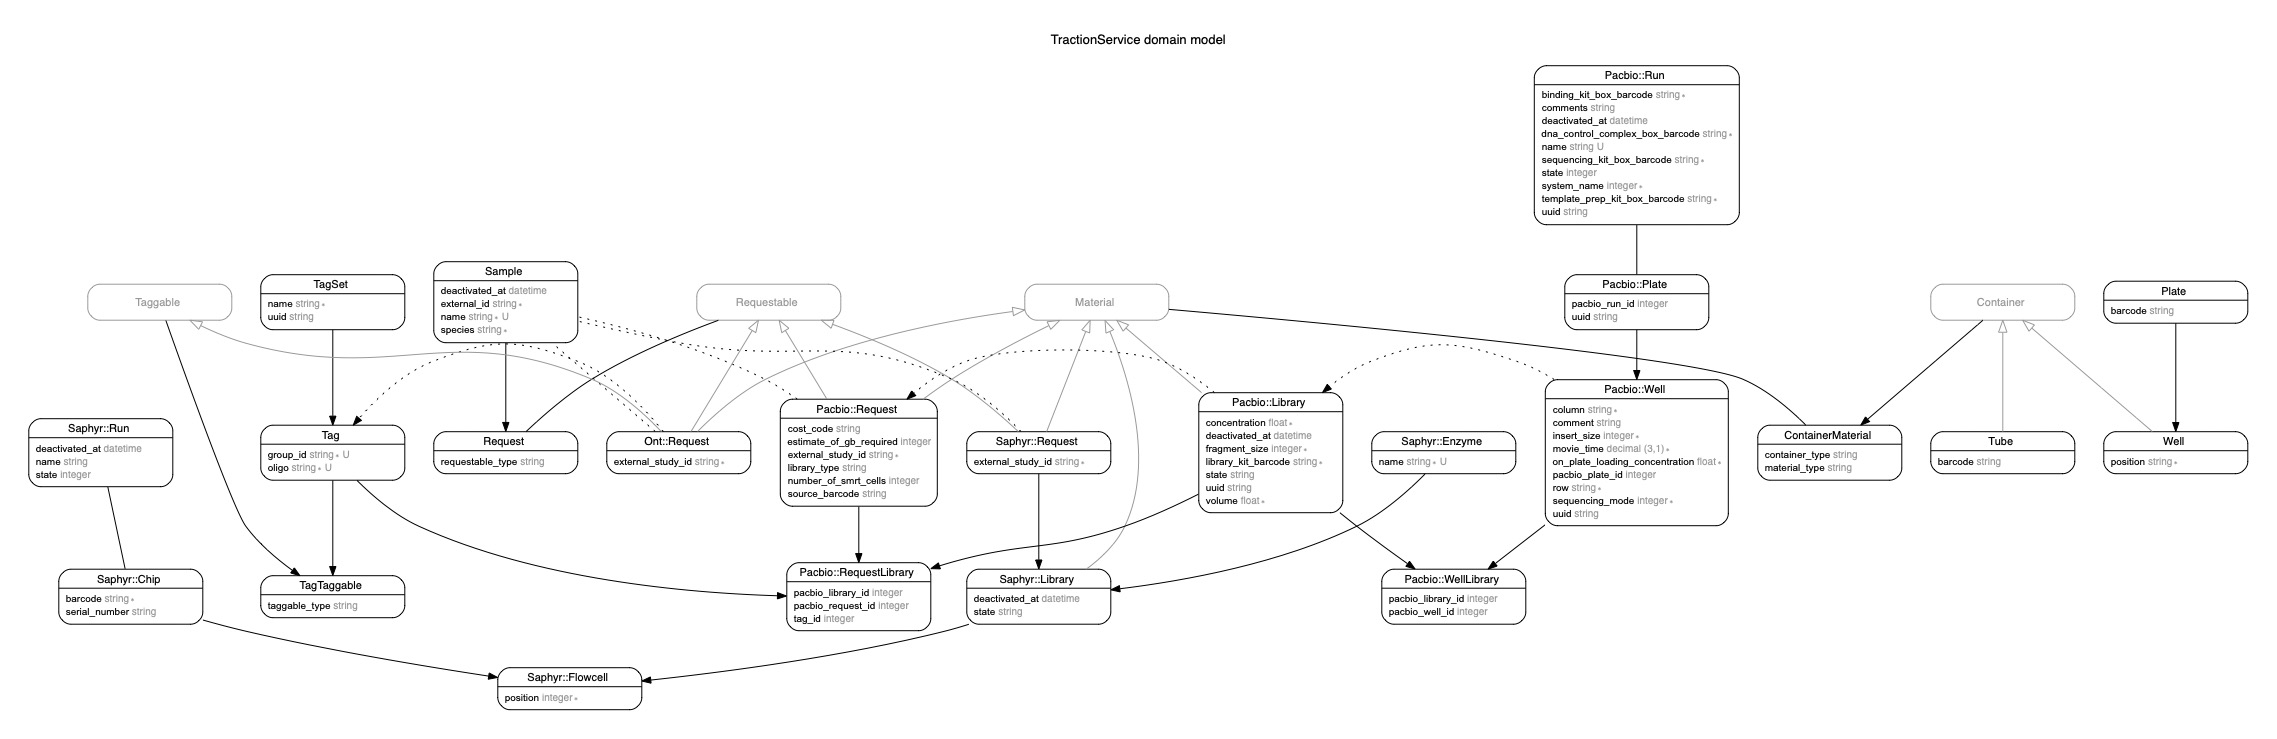
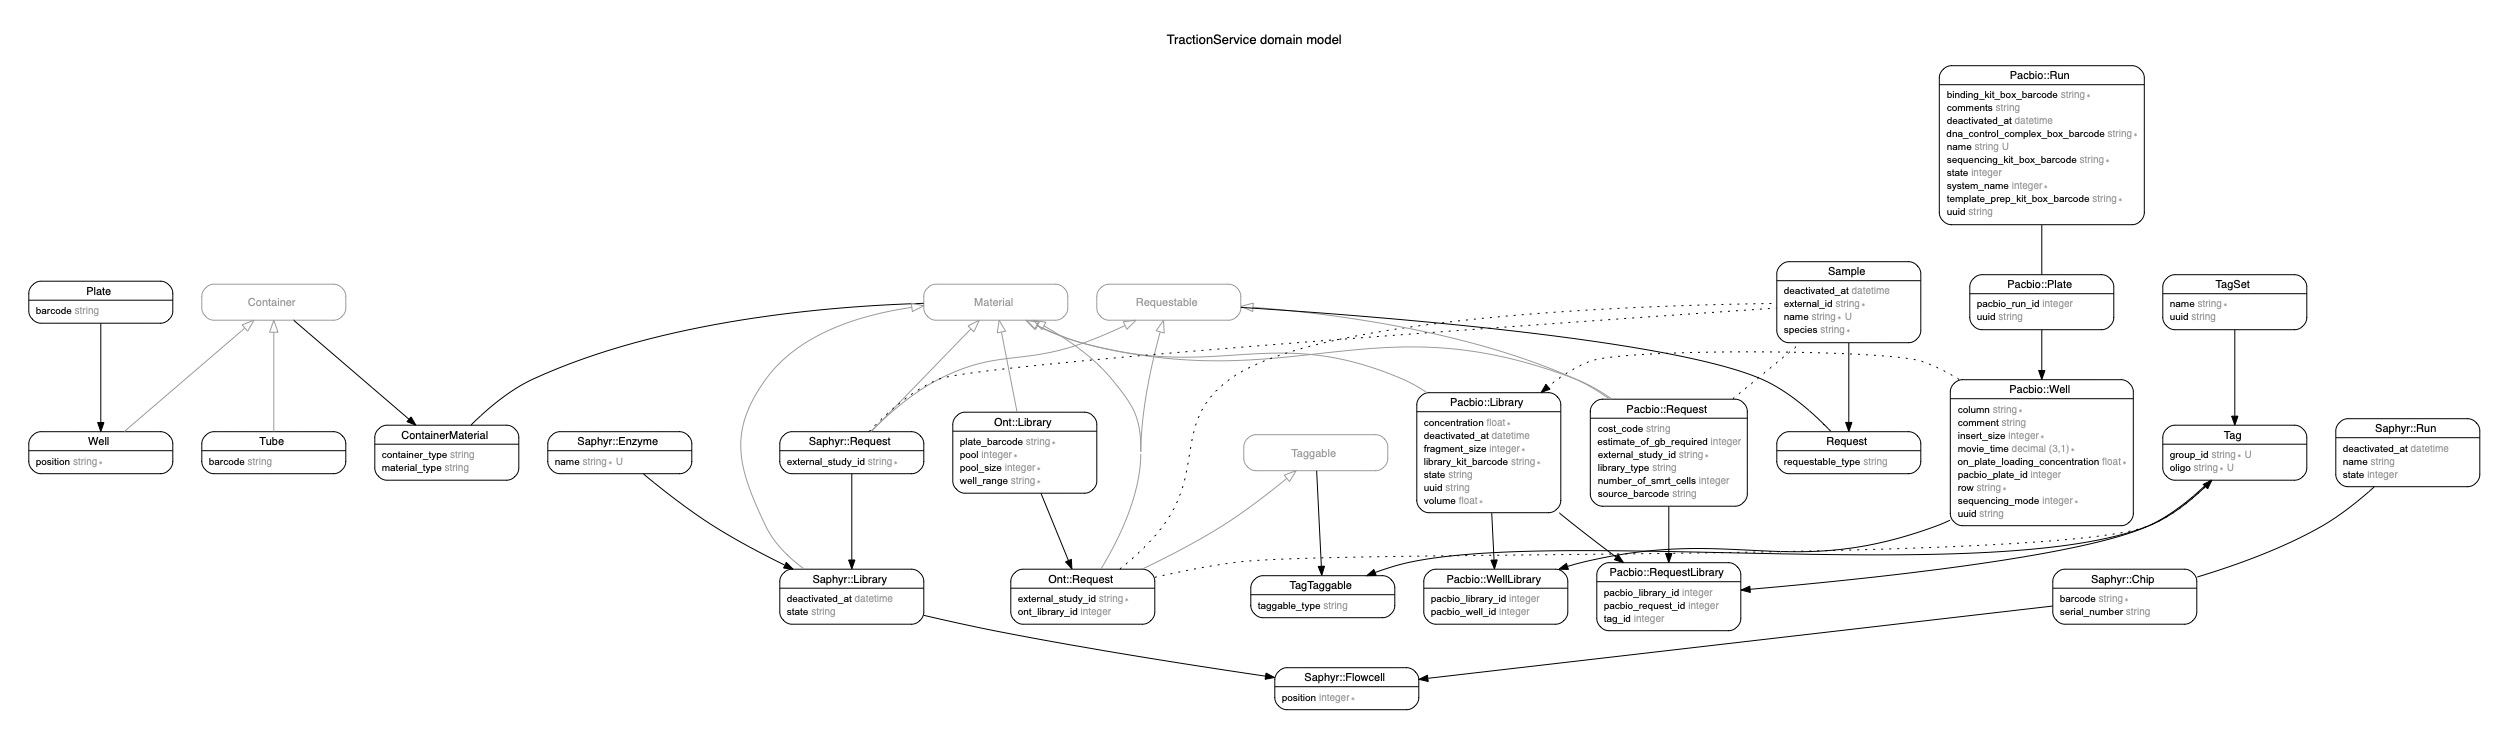
Add Ont::Library active record

diff --git a/db/schema.rb b/db/schema.rb
@@ -10,7 +10,7 @@
 #
 # It's strongly recommended that you check this file into your version control system.
 
-ActiveRecord::Schema.define(version: 2020_04_28_092948) do
+ActiveRecord::Schema.define(version: 2020_05_01_073510) do
 
   create_table "container_materials", force: :cascade do |t|
     t.string "container_type"
@@ -23,10 +23,21 @@ ActiveRecord::Schema.define(version: 2020_04_28_092948) do
     t.index ["material_type", "material_id"], name: "index_container_materials_on_material_type_and_material_id"
   end
 
+  create_table "ont_libraries", force: :cascade do |t|
+    t.string "plate_barcode"
+    t.integer "pool"
+    t.string "well_range"
+    t.integer "pool_size"
+    t.datetime "created_at", precision: 6, null: false
+    t.datetime "updated_at", precision: 6, null: false
+  end
+
   create_table "ont_requests", force: :cascade do |t|
     t.string "external_study_id"
     t.datetime "created_at", precision: 6, null: false
     t.datetime "updated_at", precision: 6, null: false
+    t.integer "ont_library_id"
+    t.index ["ont_library_id"], name: "index_ont_requests_on_ont_library_id"
   end
 
   create_table "pacbio_libraries", force: :cascade do |t|

diff --git a/db/migrate/20200501073510_create_ont_libraries.rb b/db/migrate/20200501073510_create_ont_libraries.rb
@@ -1,0 +1,15 @@
+class CreateOntLibraries < ActiveRecord::Migration[6.0]
+  def change
+    create_table :ont_libraries do |t|
+      t.string :plate_barcode
+      t.integer :pool
+      t.string :well_range
+      t.integer :pool_size
+      t.timestamps
+    end
+
+    change_table :ont_requests do |t|
+      t.belongs_to :ont_library, index: true
+    end
+  end
+end

diff --git a/app/models/ont/library.rb b/app/models/ont/library.rb
@@ -1,0 +1,16 @@
+# frozen_string_literal: true
+
+module Ont
+  # Ont::Library
+  class Library < ApplicationRecord
+    include Material
+
+    has_many :requests, inverse_of: :library, dependent: :destroy
+
+    validates :plate_barcode, :pool, :well_range, :pool_size, presence: true
+
+    def name
+      "#{plate_barcode}-#{pool}"
+    end
+  end
+end

diff --git a/app/models/ont/request.rb b/app/models/ont/request.rb
@@ -6,6 +6,8 @@ module Ont
     include Material
     include Taggable
 
+    belongs_to :library, class_name: 'Ont::Library', inverse_of: :requests, optional: true
+
     has_one :request, class_name: '::Request', as: :requestable, dependent: :nullify
     has_one :sample, through: :request
 
